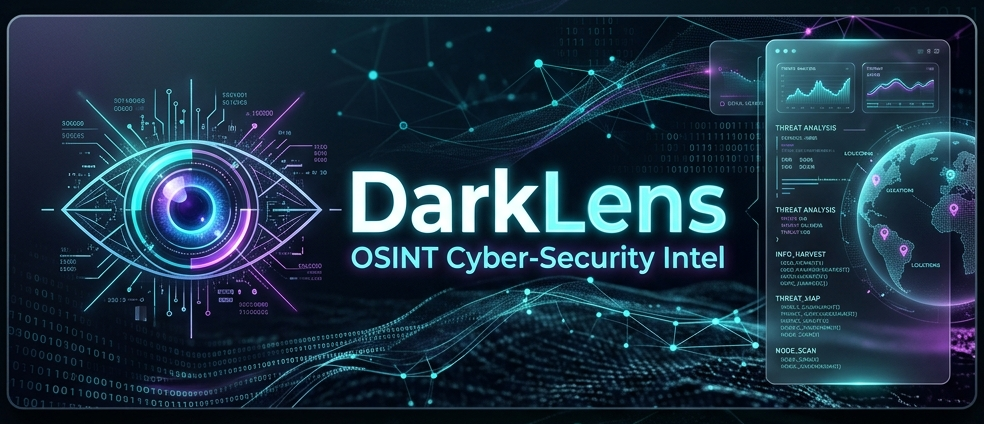
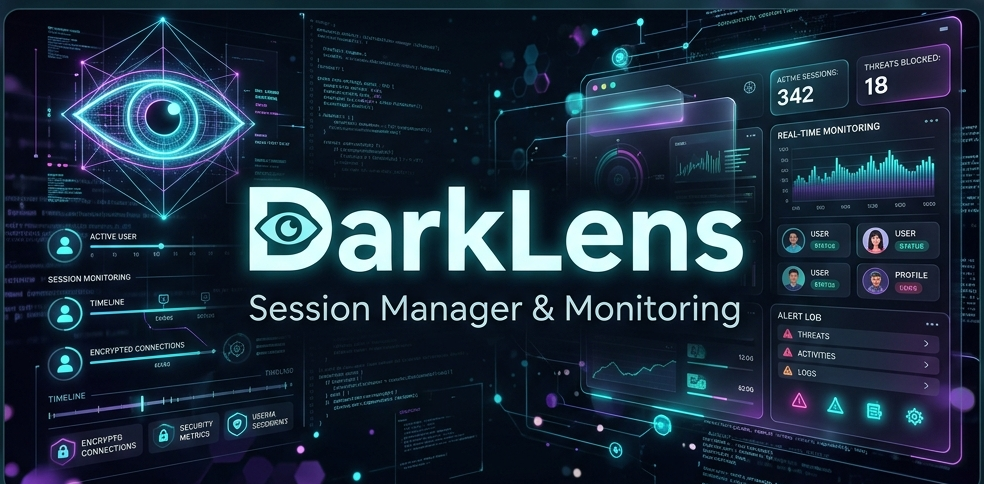
refactor: Rebrand from OSINT to Session Manager & Monitoring

diff --git a/frontend/index.html b/frontend/index.html
@@ -4,7 +4,7 @@
     <meta charset="UTF-8" />
     <link rel="icon" type="image/svg+xml" href="/favicon.svg" />
     <meta name="viewport" content="width=device-width, initial-scale=1.0" />
-    <title>DarkLens | OSINT Hub</title>
+    <title>DarkLens | Session Manager</title>
     <link rel="preconnect" href="https://fonts.googleapis.com">
     <link rel="preconnect" href="https://fonts.gstatic.com" crossorigin>
     <link href="https://fonts.googleapis.com/css2?family=Outfit:wght@300;400;500;600;700&family=Space+Grotesk:wght@400;500;600;700&display=swap" rel="stylesheet">

diff --git a/frontend/src/components/About.jsx b/frontend/src/components/About.jsx
@@ -36,7 +36,7 @@ const About = () => {
         <div>
           <h3 style={{ fontSize: '1.5rem', fontWeight: 600, color: 'var(--text-primary)', margin: '0 0 8px 0' }}>Threat Research Tool</h3>
           <p style={{ color: 'var(--text-secondary)', fontSize: '1rem', lineHeight: 1.6, maxWidth: '600px', margin: '0 auto' }}>
-            DarkLens is an advanced OSINT and threat intelligence platform designed to securely monitor forums, launch authenticated sessions, and extract actionable intel from the dark web and surface web.
+            DarkLens is an advanced session management and threat intelligence platform designed to securely monitor forums, launch authenticated sessions, and extract actionable intel from the dark web and surface web.
           </p>
         </div>
 

diff --git a/frontend/src/components/Signup.jsx b/frontend/src/components/Signup.jsx
@@ -46,7 +46,7 @@ const Signup = () => {
             Secure Operator Registration.
           </h2>
           <p style={{ fontSize: '1.1rem', color: 'var(--text-secondary)', lineHeight: 1.6 }}>
-            Request access to the DarkLens OSINT grid. Centralize your reconnaissance, maintain persistent access, and map threat infrastructures natively.
+            Request access to the DarkLens session grid. Centralize your reconnaissance, maintain persistent access, and map threat infrastructures natively.
           </p>
         </div>
       </div>

diff --git a/README.md b/README.md
@@ -1,5 +1,5 @@
 <p align="center">
-  <img src="frontend/public/darklens-banner.png" alt="DarkLens OSINT Hub" width="100%" />
+  <img src="frontend/public/darklens-banner.png" alt="DarkLens Session Manager" width="100%" />
 </p>
 
 <p align="center">
@@ -18,7 +18,7 @@
 
 ## 📖 Overview
 
-**DarkLens** is a centralized intelligence hub designed for security researchers and OSINT analysts. It solves the friction of managing dozens of isolated sock-puppet accounts across various threat actor forums, Telegram channels, and dark web portals. 
+**DarkLens** is a centralized session management and monitoring hub designed for security researchers and threat analysts. It solves the friction of managing dozens of isolated sock-puppet accounts across various threat actor forums, Telegram channels, and dark web portals. 
 
 By maintaining persistent, authenticated access via injected session cookies and local storage directly into a sandboxed Chromium instance, DarkLens enables instant, seamless access to gated intelligence sources without the need for repeated logins.
 
@@ -97,4 +97,4 @@ Ensure you have the following installed on your system before proceeding:
 
 > [!WARNING]
 > **Strictly for Authorized Research**
-> DarkLens is built exclusively for authorized security research, Open Source Intelligence (OSINT) gathering, and threat intelligence analysis by cybersecurity professionals. Any usage for malicious purposes, unauthorized access, or illegal activities is strictly prohibited. The developers assume no liability for misuse.
+> DarkLens is built exclusively for authorized security research, continuous monitoring, and threat intelligence analysis by cybersecurity professionals. Any usage for malicious purposes, unauthorized access, or illegal activities is strictly prohibited. The developers assume no liability for misuse.